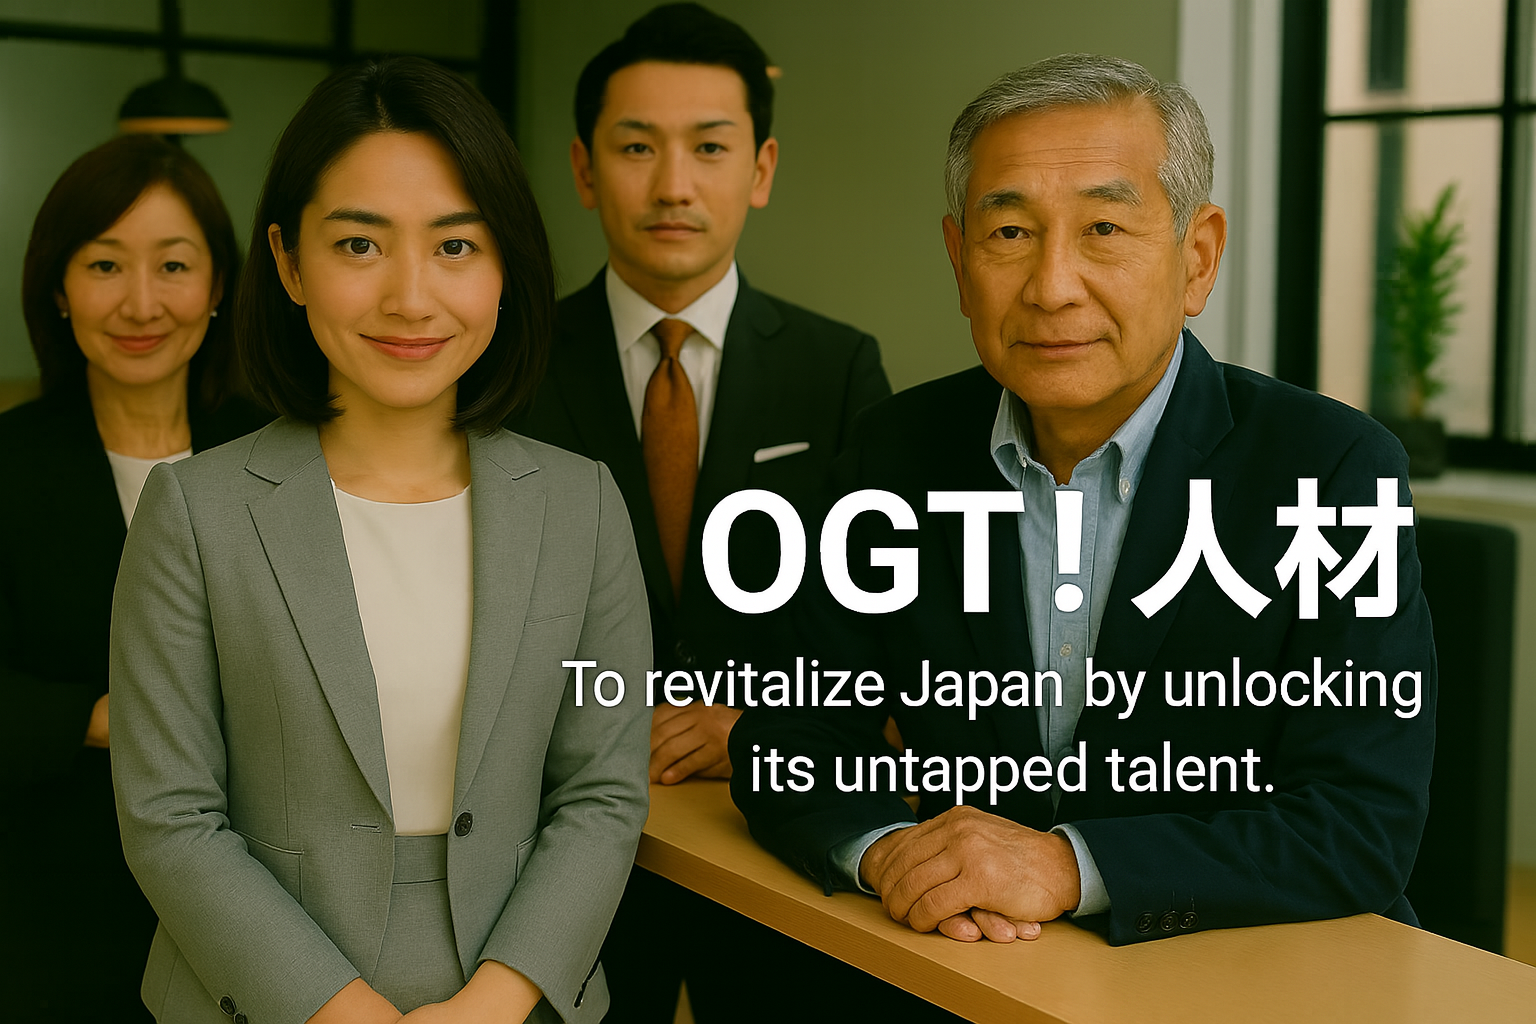
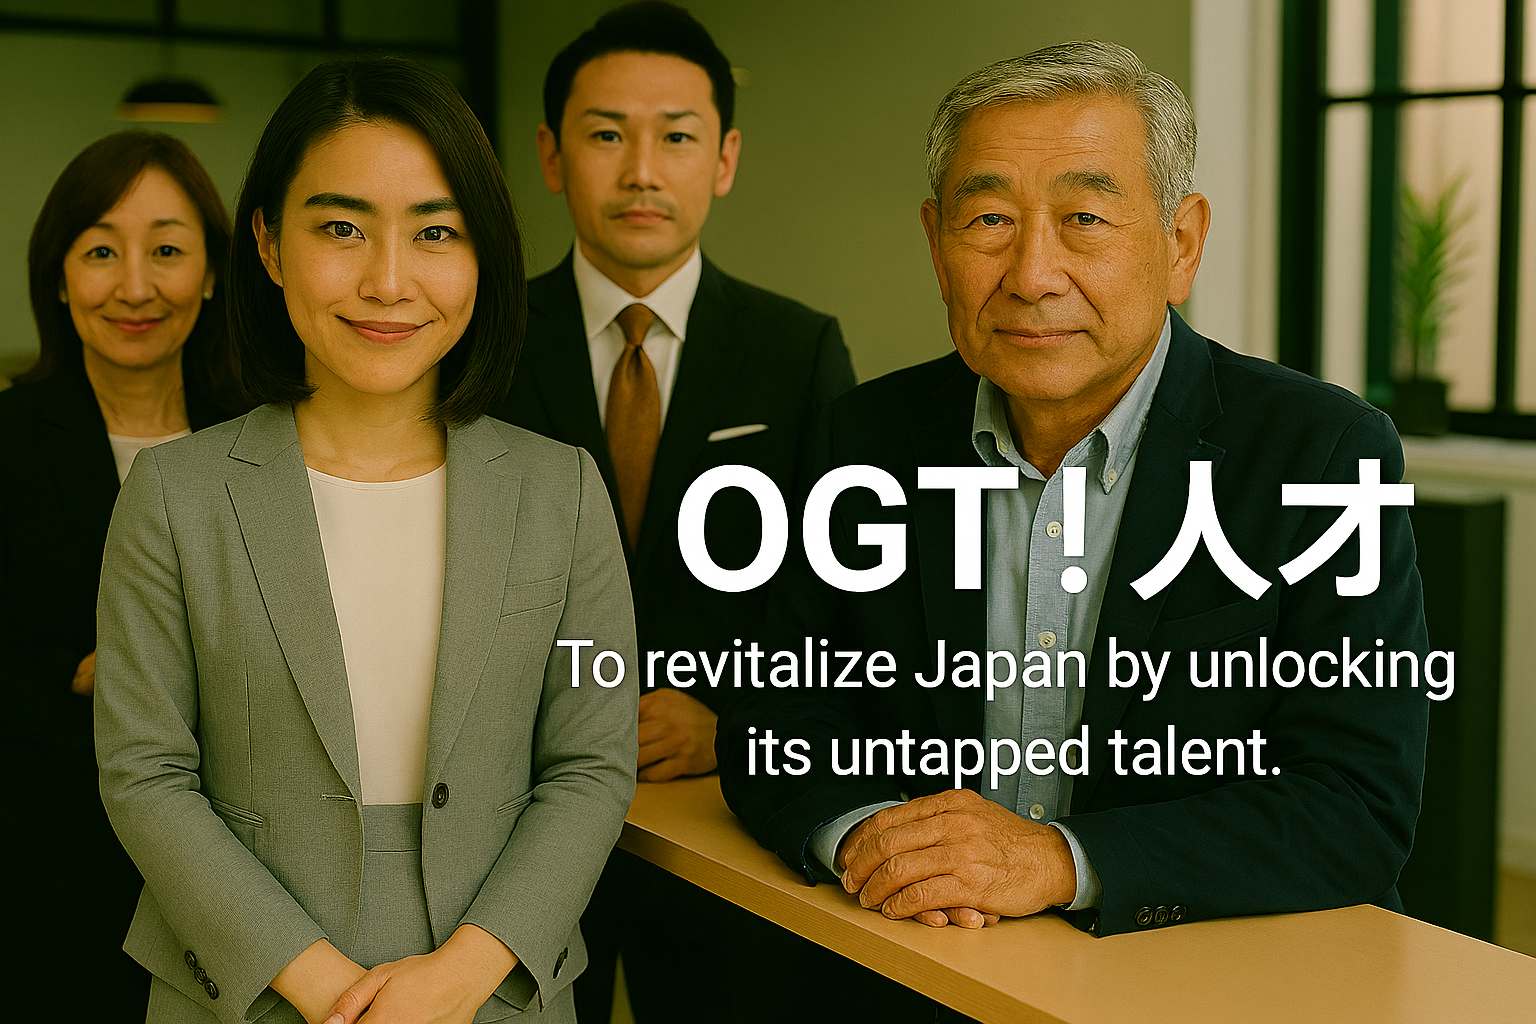
社名の誤字を修正いたしました

diff --git a/index.html b/index.html
@@ -3,12 +3,12 @@
   <head>
     <meta charset="UTF-8" />
     <meta name="viewport" content="width=device-width, initial-scale=1.0" />
-    <title>OGT！人材 - 優秀な人材採用の新たな選択肢</title>
+    <title>OGT！人才 - 優秀な人材採用の新たな選択肢</title>
     <meta
       name="description"
       content="従来の採用市場では見落とされがちな4つの貴重な人材層に焦点を当て、企業の採用課題を解決する人材紹介サービス"
     />
-    <meta name="author" content="OGT！人材" />
+    <meta name="author" content="OGT！人才" />
     <meta name="robots" content="all" />
     <meta name="viewport" content="width=device-width, initial-scale=1" />
 
@@ -47,7 +47,7 @@
     <!-- Open Graph Meta Tags -->
     <meta
       property="og:title"
-      content="OGT！人材 - 優秀な人材採用の新たな選択肢"
+      content="OGT！人才 - 優秀な人材採用の新たな選択肢"
     />
     <meta
       property="og:description"
@@ -61,7 +61,7 @@
       {
         "@context": "https://schema.org",
         "@type": "Organization",
-        "name": "OGT！人材",
+        "name": "OGT！人才",
         "description": "従来の採用市場では見落とされがちな4つの貴重な人材層に焦点を当て、企業の採用課題を解決する人材紹介サービス",
         "url": "https://ogtjinzai.com",
         "serviceType": "人材紹介サービス"
@@ -76,7 +76,7 @@
     <header class="header" role="banner">
       <div class="container">
         <div class="header-content">
-          <a href="#" class="logo" aria-label="OGT！人材 ホーム">OGT！人材</a>
+          <a href="#" class="logo" aria-label="OGT！人才 ホーム">OGT！人才</a>
           <button
             class="hamburger"
             aria-label="メニューを開く"
@@ -320,7 +320,7 @@
               <thead>
                 <tr>
                   <th scope="col">比較項目</th>
-                  <th scope="col" class="ogt-column">OGT！人材</th>
+                  <th scope="col" class="ogt-column">OGT！人才</th>
                   <th scope="col" class="general-column">一般的な人材紹介</th>
                 </tr>
               </thead>
@@ -391,7 +391,7 @@
             <div class="comparison-card">
               <h4>紹介アプローチ</h4>
               <div class="comparison-item">
-                <div class="comparison-label">OGT！人材</div>
+                <div class="comparison-label">OGT！人才</div>
                 <div class="comparison-ogt">
                   厳選した質の高い<br />人材のみを紹介
                 </div>
@@ -407,7 +407,7 @@
             <div class="comparison-card">
               <h4>サポート範囲</h4>
               <div class="comparison-item">
-                <div class="comparison-label">OGT！人材</div>
+                <div class="comparison-label">OGT！人才</div>
                 <div class="comparison-ogt">
                   採用前〜入社後100日間まで<br />一貫支援
                 </div>
@@ -423,7 +423,7 @@
             <div class="comparison-card">
               <h4>コンサルティング</h4>
               <div class="comparison-item">
-                <div class="comparison-label">OGT！人材</div>
+                <div class="comparison-label">OGT！人才</div>
                 <div class="comparison-ogt">
                   戦略的JD作成、<br />オンボーディング設計
                 </div>
@@ -439,7 +439,7 @@
             <div class="comparison-card">
               <h4>専門性</h4>
               <div class="comparison-item">
-                <div class="comparison-label">OGT！人材</div>
+                <div class="comparison-label">OGT！人才</div>
                 <div class="comparison-ogt">
                   4つの特化領域での<br />深い専門知識
                 </div>
@@ -455,7 +455,7 @@
             <div class="comparison-card">
               <h4>定着支援</h4>
               <div class="comparison-item">
-                <div class="comparison-label">OGT！人材</div>
+                <div class="comparison-label">OGT！人才</div>
                 <div class="comparison-ogt">
                   入社前研修、<br />詳細な定着フォロー
                 </div>
@@ -471,7 +471,7 @@
             <div class="comparison-card">
               <h4>採用担当者の負担</h4>
               <div class="comparison-item">
-                <div class="comparison-label">OGT！人材</div>
+                <div class="comparison-label">OGT！人才</div>
                 <div class="comparison-ogt">
                   大幅な工数削減、<br />質の高い候補者のみ
                 </div>
@@ -741,7 +741,7 @@
     <footer class="footer" role="contentinfo">
       <div class="container">
         <p>
-          &copy; 2025 OGT！人材. All rights reserved. |
+          &copy; 2025 OGT！人才. All rights reserved. |
           プロフェッショナルな人材採用のパートナー
         </p>
       </div>

diff --git a/thanks.html b/thanks.html
@@ -3,13 +3,13 @@
   <head>
     <meta charset="UTF-8" />
     <meta name="viewport" content="width=device-width, initial-scale=1.0" />
-    <title>お問い合わせありがとうございました - OGT！人材</title>
+    <title>お問い合わせありがとうございました - OGT！人才</title>
     <meta
       name="description"
       content="お問い合わせを受け付けました。2~3営業日以内にご返信いたします。"
     />
     <meta name="robots" content="noindex, nofollow" />
-    <meta name="author" content="OGT！人材" />
+    <meta name="author" content="OGT！人才" />
     <meta name="robots" content="noindex, nofollow" />
     <meta name="viewport" content="width=device-width, initial-scale=1" />
 
@@ -236,8 +236,8 @@
     <header class="header" role="banner">
       <div class="container">
         <div class="header-content">
-          <a href="index.html" class="logo" aria-label="OGT！人材 ホーム"
-            >OGT！人材</a
+          <a href="index.html" class="logo" aria-label="OGT！人才 ホーム"
+            >OGT！人才</a
           >
           <nav class="nav" role="navigation" aria-label="メインナビゲーション">
             <ul>
@@ -264,7 +264,7 @@
 
           <div class="thanks-message">
             <p>
-              この度は、OGT！人材にお問い合わせいただき、誠にありがとうございます。
+              この度は、OGT！人才にお問い合わせいただき、誠にありがとうございます。
             </p>
             <p>
               いただいたご相談内容を確認の上、<strong>2~3営業日以内</strong>に担当者よりご連絡いたします。
@@ -306,7 +306,7 @@
     <footer class="footer" role="contentinfo">
       <div class="container">
         <p>
-          &copy; 2025 OGT！人材. All rights reserved. |
+          &copy; 2025 OGT！人才. All rights reserved. |
           プロフェッショナルな人材採用のパートナー
         </p>
       </div>

diff --git a/CLAUDE.md b/CLAUDE.md
@@ -1,0 +1,103 @@
+# CLAUDE.md
+
+This file provides guidance to Claude Code (claude.ai/code) when working with code in this repository.
+
+## 言語設定
+
+**重要**: このプロジェクトでは、Claude Codeは必ず日本語で回答してください。技術用語は必要に応じて英語のまま使用可能です。
+
+## プロジェクト概要
+
+「OGT！人才」（OGT Jinzai）の企業向け採用担当者をターゲットとした日本語ランディングページです。本番運用中のTeam-Bバージョン。
+
+### 4つの人材層
+- **Senior Soul（シニア・ソウル）**: 50〜60代の現役志向ベテラン層
+- **Leading Ladies（リーディング・レディズ）**: リーダーシップの素質を持つ女性人材
+- **Top Guns（トップ・ガンズ）**: 若くして卓越した能力を持つ人材
+- **Language Lions（ランゲージ・ライオンズ）**: 複数言語を操るグローバル人材
+
+## 主要コマンド
+
+```bash
+# ローカル開発サーバー起動
+python -m http.server 8000
+# または
+npx serve
+
+# ビルド不要（純粋な静的サイト）
+# デプロイはNetlifyへの直接アップロードまたはGit連携
+```
+
+## コードアーキテクチャ
+
+### 技術スタック
+- **HTML**: セマンティックHTML5、アクセシビリティ対応（ARIA属性）
+- **CSS**: カスタムプロパティによるデザインシステム、モバイルファースト設計
+- **JavaScript**: GSAP使用（CDN）、バニラJSメイン
+- **フォーム**: Netlify Forms（サーバーサイド処理不要）
+- **アナリティクス**: Google Analytics (G-VGLK5ZNC4B)
+
+### ファイル構成
+```
+/
+├── index.html      # メインLP（構造化データ、OGPタグ含む）
+├── thanks.html     # フォーム送信完了ページ
+├── css/
+│   └── style.css   # デザインシステム実装（CSS変数、レスポンシブ）
+├── js/
+│   └── main.js     # インタラクション（ナビ、フォーム検証、アニメーション）
+└── assets/         # 人材カテゴリー画像
+    ├── senior_soul.png
+    ├── leading_ladies.png
+    ├── top-guns_v3.png
+    └── language_lions.png
+```
+
+### CSS設計パターン
+- **CSS変数**: 色、間隔、タイポグラフィの一元管理
+- **BEM命名**: 主要コンポーネントで使用
+- **ユーティリティクラス**: コンテナ、グリッドレイアウト
+- **レスポンシブ**: 768px、1024pxのブレークポイント
+
+### JavaScript機能
+1. **モバイルナビゲーション**: ハンバーガーメニューとフォーカス管理
+2. **フォームバリデーション**: リアルタイム検証とエラー表示
+3. **スムーススクロール**: アンカーリンクの滑らかな遷移
+4. **3Dホバーエフェクト**: GSAPによるカード回転アニメーション
+5. **パフォーマンス監視**: Intersection Observerでの遅延読み込み
+
+### Netlify Forms実装
+```html
+<form data-netlify="true" name="contact" action="thanks.html">
+  <!-- 必須: data-netlify="true"とname属性 -->
+</form>
+```
+
+### アクセシビリティ対応
+- スキップリンク実装
+- 適切なARIA属性とrole属性
+- キーボードナビゲーション対応
+- フォーカス表示の明確化
+
+## 重要な制約事項
+
+1. **言語**: 全コンテンツは日本語（技術用語除く）
+2. **ブラウザ対応**: モダンブラウザ（IE非対応）
+3. **パフォーマンス**: 画像は既に最適化済み
+4. **外部依存**: GSAP（CDN）、Google Fonts、Google Analytics
+5. **フォーム送信**: Netlifyのサーバーサイド処理（バックエンド実装不要）
+
+## 変更時の注意点
+
+- **デザイン変更**: CSS変数を優先的に調整
+- **コンテンツ更新**: SEOメタタグも同時に更新
+- **画像差し替え**: assetsフォルダ内で同名ファイルを置換
+- **フォーム項目追加**: Netlify管理画面での通知設定も必要
+- **アニメーション調整**: GSAPの互換性とパフォーマンスに注意
+
+## デバッグとテスト
+
+- **レスポンシブ確認**: Chrome DevToolsのデバイスエミュレータ使用
+- **フォームテスト**: Netlifyのプレビューデプロイで実施
+- **アクセシビリティ**: Chrome Lighthouse、axe DevTools推奨
+- **パフォーマンス**: PageSpeed Insightsでの測定

diff --git a/README.md b/README.md
@@ -1,0 +1,115 @@
+# OGT！人才 ランディングページ
+
+優秀な人材採用の新たな選択肢 - 従来の採用市場では見落とされがちな4つの貴重な人材層に焦点を当てた人材紹介サービス
+
+## 概要
+
+OGT！人才は、企業の採用課題を解決する革新的な人材紹介サービスです。Senior Soul、Leading Ladies、Top Guns、Language Lionsという4つの専門カテゴリーで、質の高い人材を厳選して紹介します。
+
+## 主な特徴
+
+- 🎯 **厳選主義** - 大量のCVではなく、真に優秀な人材のみを紹介
+- 📋 **包括的サポート** - 採用前の戦略立案から入社後100日間の定着支援まで
+- 🌐 **4つの専門領域** - それぞれの人材層に特化した専門的なアプローチ
+- 💡 **コンサルティング価値** - 単なる人材紹介を超えた戦略的パートナーシップ
+
+## 技術仕様
+
+### 使用技術
+
+- HTML5 (セマンティック、アクセシビリティ対応)
+- CSS3 (カスタムプロパティ、レスポンシブデザイン)
+- Vanilla JavaScript + GSAP (アニメーション)
+- Netlify Forms (フォーム処理)
+
+### 動作環境
+
+- モダンブラウザ（Chrome、Firefox、Safari、Edge）
+- レスポンシブ対応（スマートフォン、タブレット、デスクトップ）
+
+## セットアップ
+
+### 必要なもの
+
+- 静的ファイルサーバー（Python、Node.js等）
+- モダンブラウザ
+
+### 開発環境の起動
+
+```bash
+# Python を使用する場合
+python -m http.server 8000
+
+# Node.js を使用する場合
+npx serve
+
+# ブラウザでアクセス
+# http://localhost:8000
+```
+
+## ディレクトリ構成
+
+```
+.
+├── index.html          # メインランディングページ
+├── thanks.html         # フォーム送信完了ページ
+├── README.md           # このファイル
+├── CLAUDE.md           # Claude Code用ガイドライン
+├── css/
+│   └── style.css       # スタイルシート
+├── js/
+│   └── main.js         # JavaScriptファイル
+└── assets/             # 画像アセット
+    ├── senior_soul.png
+    ├── leading_ladies.png
+    ├── top-guns_v3.png
+    └── language_lions.png
+```
+
+## デプロイ
+
+### Netlifyへのデプロイ
+
+1. Netlifyアカウントにログイン
+2. ドラッグ&ドロップまたはGit連携でデプロイ
+3. フォーム通知設定を管理画面で設定
+
+改修はGitへのプッシュのみで自動デプロイされる
+
+### 本番環境
+
+- URL: https://ogtjinzai.com
+- Netlify App URL: https://ogt-jinzai.netlify.app/
+- ドメイン： お名前ドットコム（Aレコードで75.2.60.5の設定）
+- ネームサーバー： お名前ドットコム
+- ホスティング: Netlify
+- SSL: Let's Encrypt（Netlifyによる自動設定）
+
+## 開発ガイドライン
+
+### コミット規則
+
+- feat: 新機能追加
+- fix: バグ修正
+- style: スタイル調整
+- docs: ドキュメント更新
+- refactor: リファクタリング
+
+### コーディング規約
+
+- セマンティックHTMLの使用
+- アクセシビリティ基準（WCAG 2.1 AA）準拠
+- モバイルファーストアプローチ
+- パフォーマンス最適化を考慮
+
+## フォーム仕様
+
+1. Netlify Formsを使用した自動処理
+   - 必須項目：会社名、担当者名、メールアドレス、電話番号
+   - 任意項目：採用課題（複数選択）、お問い合わせ内容
+2. Zapierを使用したワークフロー
+   - Netlify Form ⇒ Google Spread Sheet
+
+## ライセンス
+
+Copyright © 2024 OGT！人才. All rights reserved.
